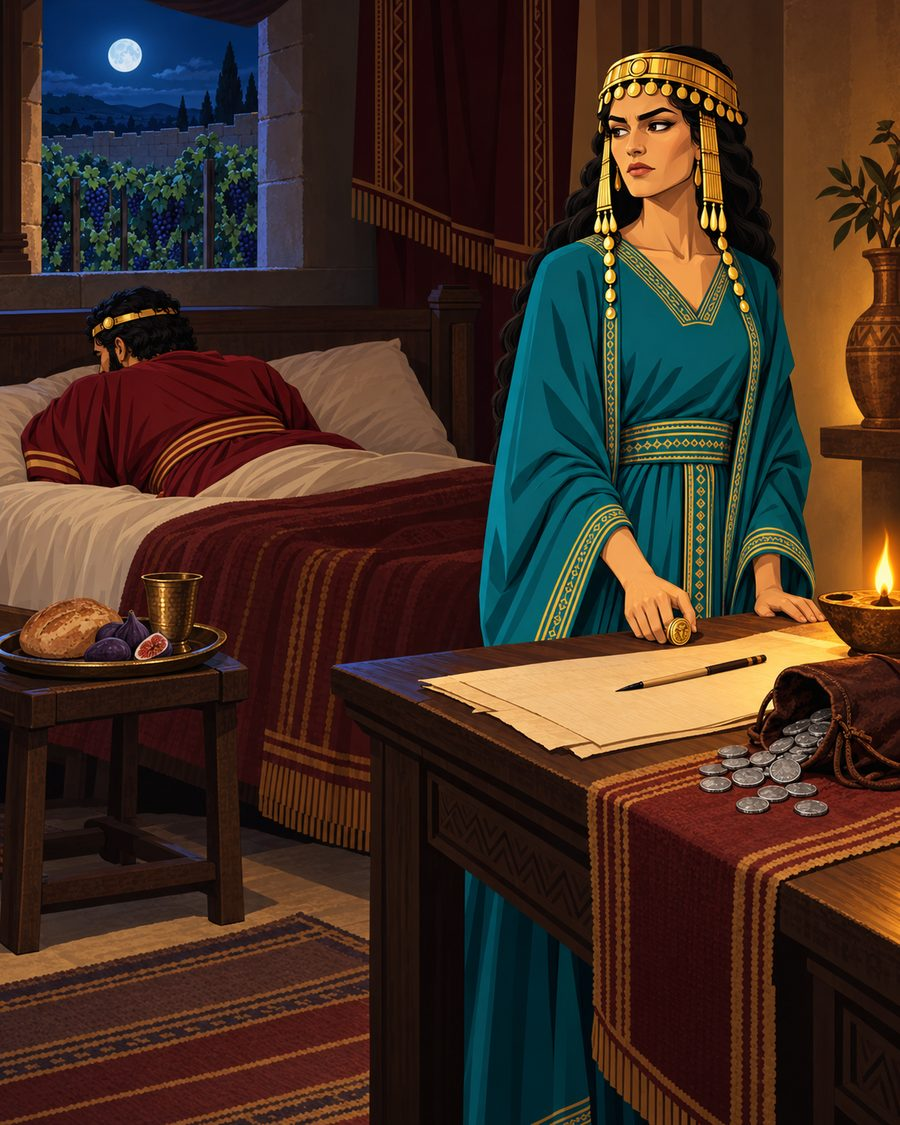
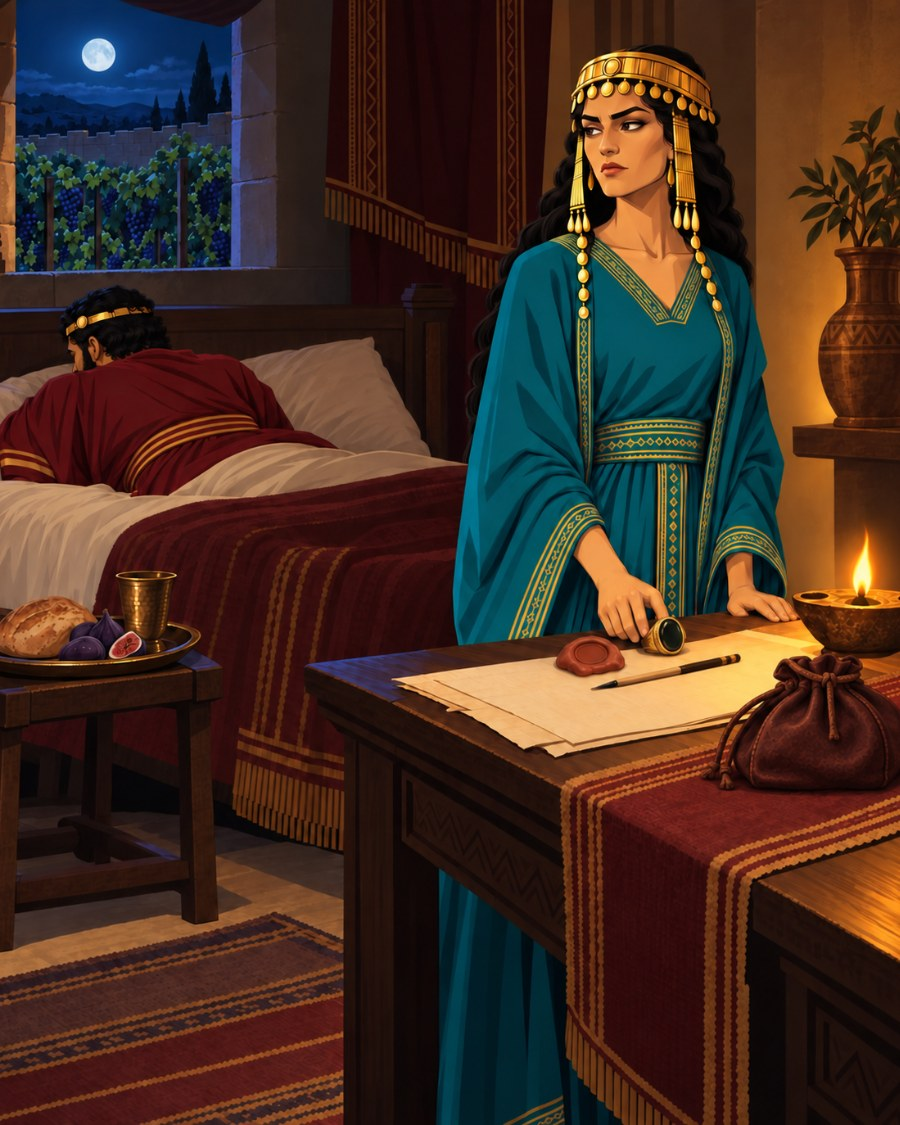
art: the bedchamber's final picture — the ring and the clay, the pouch closed, the seal padded (28a, #28) (#39)
* feat: the bedchamber's final picture — the owner's edit fitted to 900 × 1125 (33 px from the left, 12.8 from the right), the boxes re-measured with the seal's padded for a near-miss and kept the smallest box it overlaps, the seal's, pouch's, and woman's captions as ruled; world rules §8's bedchamber line gone (28a, #28)

* test: the bedchamber's seal smaller than every box it overlaps, shown failing on main's boxes; the draw-order test's new order (28a, #28)

* docs: the v0.5.1 changelog line for 28a (28a, #28)

---------

diff --git a/src/cases/vineyard/case.ts b/src/cases/vineyard/case.ts
@@ -39,19 +39,25 @@ export const vineyard = {
       picture: 'bedchamber.jpg',
       size: [900, 1125],
       spots: [
-        { id: 'window', box: [0, 0, 33, 26], words: ['vineyard'], cites: '21:1' },
+        { id: 'window', box: [0, 0, 28, 25], words: ['vineyard'], cites: '21:1' },
         {
           id: 'man-bed',
-          box: [2, 24, 38, 22],
+          box: [1, 25, 37, 19],
           words: ['turned-away'],
           person: 'p1',
           cites: '21:4',
         },
-        { id: 'tray', box: [0, 50, 28, 18], words: ['would-not-eat'], cites: '21:4' },
-        { id: 'woman', box: [52, 4, 40, 46], words: [], person: 'p2', cites: '21:5-7' },
-        { id: 'seal', box: [66, 50, 16, 9], words: ['ahab', 'seal'], paper: 'seal', cites: '21:8' },
-        { id: 'sheets', box: [44, 57, 36, 12], words: ['letters'], cites: '21:8' },
-        { id: 'purse', box: [74, 58, 26, 16], words: ['silver'], cites: '21:2' },
+        { id: 'tray', box: [0, 50, 23, 11], words: ['would-not-eat'], cites: '21:4' },
+        { id: 'woman', box: [51, 4, 37, 47], words: [], person: 'p2', cites: '21:5-7' },
+        {
+          id: 'seal',
+          box: [56, 48, 26, 17],
+          words: ['ahab', 'seal'],
+          paper: 'seal',
+          cites: '21:8',
+        },
+        { id: 'sheets', box: [44, 57, 38, 13], words: ['letters'], cites: '21:8' },
+        { id: 'purse', box: [82, 58, 10, 13], words: ['silver'], cites: '21:2' },
       ],
     },
     {

diff --git a/src/cases/cases.test.ts b/src/cases/cases.test.ts
@@ -62,4 +62,18 @@ describe('the case registry (Gate 02 A1, A5)', () => {
     for (const [language, text] of Object.entries(c.text))
       expect(validate(c.structure, text), language).toEqual([])
   })
+
+  // The vineyard turns on the seal, and its box is padded so a near-miss still counts; it must be
+  // the smallest box it overlaps, so it is drawn on top and takes the tap (#28 [1]).
+  it('the bedchamber’s seal is smaller than every box it overlaps', () => {
+    const vineyard = cases.find((c) => c.structure.id === 'vineyard')!.structure
+    const spots = vineyard.moments.find((m) => m.id === 'bedchamber')!.spots
+    const seal = spots.find((s) => s.id === 'seal')!
+    const area = ([, , w, h]: readonly number[]) => w * h
+    const overlaps = ([l, t, w, h]: readonly number[], [L, T, W, H]: readonly number[]) =>
+      l < L + W && L < l + w && t < T + H && T < t + h
+    const over = spots.filter((s) => s.id !== 'seal' && overlaps(s.box, seal.box))
+    expect(over.map((s) => s.id).sort()).toEqual(['sheets', 'woman'])
+    for (const s of over) expect(area(s.box), s.id).toBeGreaterThan(area(seal.box))
+  })
 })

diff --git a/src/cases/vineyard/en.ts b/src/cases/vineyard/en.ts
@@ -23,10 +23,10 @@ export const en = {
     'man-bed':
       'A man in a wine-red robe and a gold circlet lies with his face turned to the wall, his back to the room.',
     tray: 'Bread, figs, and a cup of wine beside the bed. Untouched.',
-    woman: 'A woman in teal and a gold headdress at the table. One hand rests on a gold seal.',
-    seal: 'A gold seal on the table, under the woman’s hand.',
+    woman: 'A woman in teal and a gold headdress at the table.',
+    seal: 'A gold signet ring with a dark stone beside her hand. On the corner of the papyrus, a lump of red clay carries its impression.',
     sheets: 'Blank sheets of papyrus and a reed pen on the table.',
-    purse: 'A leather pouch tipped open on the table, silver spilling out.',
+    purse: 'A leather pouch on the table, tied shut at the neck and heavy with silver.',
     crowd: 'The people of the city, gathered at the gate. Nobody is eating.',
     stones: 'Through the gate, outside the city, a heap of stones on open ground.',
     seated:

diff --git a/src/App.test.tsx b/src/App.test.tsx
@@ -148,7 +148,8 @@ describe('the case screen explored (#6, 03b)', () => {
   })
 
   // Spots are drawn largest first, so the smaller of two overlapping boxes is on top and takes the
-  // tap: the seal over the papyrus and the pouch (#26 [7]).
+  // tap: the seal, padded for a near-miss, over the woman and the papyrus it overlaps (#26 [7],
+  // #28 [1]).
   it('draws a moment’s spots largest first, whatever the file’s order', () => {
     render(<App />)
     openCase(/The vineyard/)
@@ -156,7 +157,7 @@ describe('the case screen explored (#6, 03b)', () => {
     const drawn = [...document.querySelectorAll<SVGElement>('[data-spot]')].map(
       (r) => r.dataset.spot,
     )
-    expect(drawn).toEqual(['woman', 'window', 'man-bed', 'tray', 'sheets', 'purse', 'seal'])
+    expect(drawn).toEqual(['woman', 'man-bed', 'window', 'sheets', 'seal', 'tray', 'purse'])
   })
 
   // The giant's sheathed sword is his own tap's: no spot inside his box, which at phone size read

diff --git a/CHANGELOG.md b/CHANGELOG.md
@@ -3,6 +3,15 @@
 Entries run in one list in version order, newest first; within a version, by PR number. A version
 is reserved when its entry is created, at the PR's open, so a lower number may land later.
 
+## v0.5.1 — The bedchamber's final picture (#28)
+
+- **28a — the seal found, the coins gone** (#39): the bedchamber edited by the owner and fitted to
+  900 × 1125, a large gold signet ring beside the woman's hand and its impression in red clay on
+  the papyrus, the pouch closed on the table; the boxes re-measured, the seal's padded so a tap
+  just off the ring or the clay still takes it and kept the smallest box it overlaps; the seal's,
+  the pouch's, and the woman's captions for what the picture now shows; world rules §8's
+  bedchamber line gone.
+
 ## v0.5.0 — Gate 05, case design (#26)
 
 - **05a — a case is solved by looking** (#32): `docs/case-design.md`, the six rules a case is

diff --git a/docs/world-rules.md b/docs/world-rules.md
@@ -103,6 +103,5 @@ Run before a picture enters a case.
 
 - Tutorial: the boy and the shield-bearer wear gold headbands — commoners wear plain cloth.
 - Tutorial: the armor heap is chain mail — regenerate as scale.
-- Bedchamber: the pouch spills coins — regenerate as cut silver with a balance scale on the table.
 
 Prototype pictures are accepted as-is for testing; each item above becomes an `art` Issue before season one ships.
